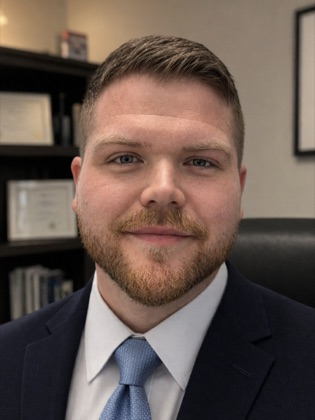
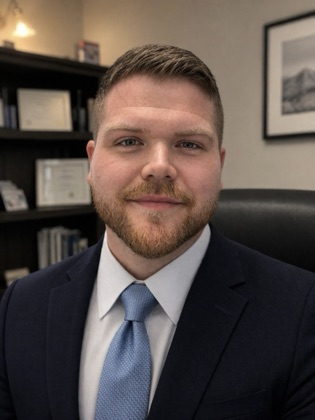
Update connect headshot photo

diff --git a/connect.html b/connect.html
@@ -23,7 +23,7 @@
   <link rel="preconnect" href="https://fonts.googleapis.com">
   <link rel="preconnect" href="https://fonts.gstatic.com" crossorigin>
   <link href="https://fonts.googleapis.com/css2?family=Fraunces:opsz,wght@9..144,500;9..144,700&family=Manrope:wght@400;500;600;700;800&display=swap" rel="stylesheet">
-  <link rel="stylesheet" href="/assets/css/styles.css?v=20260601-4">
+  <link rel="stylesheet" href="/assets/css/styles.css?v=20260601-5">
   <link rel="icon" href="/apple-touch-icon.png">
   <link rel="apple-touch-icon" sizes="180x180" href="/apple-touch-icon.png">
 </head>
@@ -37,7 +37,7 @@
         <p class="connect-label">Better Way Dental Lab</p>
         <div class="connect-headshot">
           <img
-            src="/assets/images/cole-braddy-headshot.jpg"
+            src="/assets/images/cole-braddy-headshot.jpg?v=20260601-6"
             alt="Cole Braddy headshot"
             width="315"
             height="420"

diff --git a/assets/css/styles.css b/assets/css/styles.css
@@ -1397,7 +1397,7 @@ body[data-page="connect"] .connect-profile {
 
 body[data-page="connect"] .connect-headshot {
   justify-self: center;
-  width: clamp(5.25rem, 8vw, 6rem);
+  width: clamp(6.56rem, 10vw, 7.5rem);
   aspect-ratio: 1;
   padding: 0.3rem;
   border-radius: 50%;
